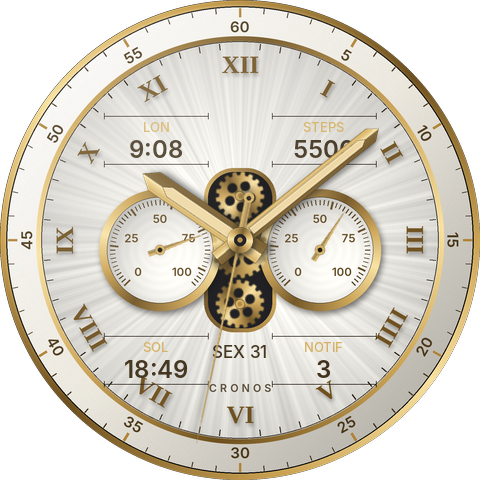
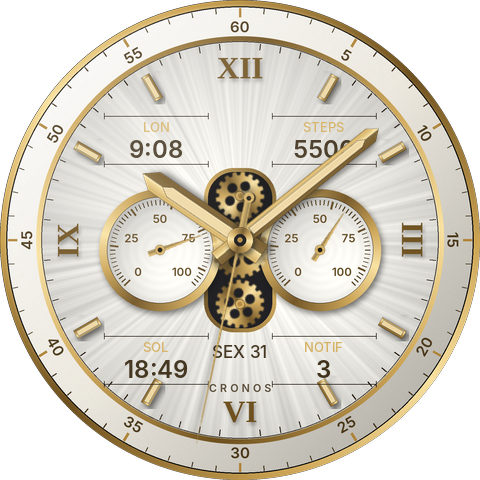
Cronos romano: algarismos só nas posições cardinais, índices dourados nas demais
Claude-Session: https://claude.ai/code/session_01LnZN1cAkdN7ngVB1CGR8G1

diff --git a/tools/faces/cronos_assets.py b/tools/faces/cronos_assets.py
@@ -262,12 +262,15 @@ def mostrador(t: Tema) -> Image.Image:
     d.ellipse([c - 198.5 * SS, c - 198.5 * SS, c + 198.5 * SS, c + 198.5 * SS], outline=(*t.texto, 90), width=SS // 2 + 1)
     # 5) índices aplicados (o do 12h é a cunha)
     if t.romanos:
-        fr = fonte_serifa(25 * SS)
+        fr = fonte_serifa(31 * SS)
         for h in range(12):
             ang = h * 30
-            x, y = polar(c, c, 175 * SS, ang)
+            if h % 3:                                         # entre os algarismos: índices dourados finos
+                _colar_polar(img, _barra_aplicada(t, 10, 28), c, c, 176, ang)
+                continue
+            x, y = polar(c, c, 172 * SS, ang)
             rot = -ang + (180 if 90 < ang < 270 else 0)
-            num = ["XII", "I", "II", "III", "IIII", "V", "VI", "VII", "VIII", "IX", "X", "XI"][h]
+            num = {0: "XII", 3: "III", 6: "VI", 9: "IX"}[h]
             sh = tela(n)
             texto_centrado(sh, num, x, y, fr, (0, 0, 0, 255), rot=rot)
             img.alpha_composite(sombra(sh, 1.5 * SS, 2.5 * SS, 2 * SS, 0.35))
